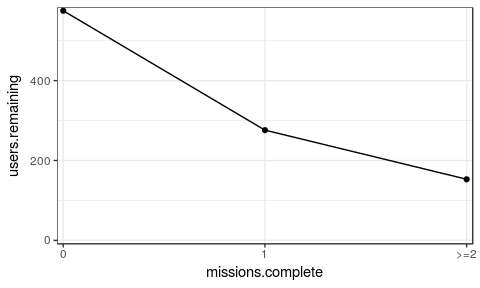
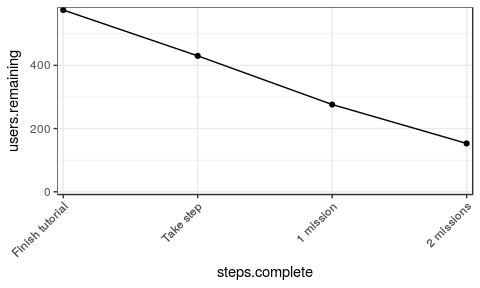
resolves #4 added taking first step to user dropoff graph

diff --git a/R/stats_for_paper.html b/R/stats_for_paper.html
@@ -44,7 +44,7 @@ April 17, 2018</p>
 <ul>
 <li><a href="#data-overlap-and-agreement-between-users">Data overlap and agreement between users</a></li>
 <li><a href="#tutorial-dropoffs">Tutorial dropoffs</a></li>
-<li><a href="#stickyness-of-tool-user-dropoffs">Stickyness of tool: user dropoffs</a></li>
+<li><a href="#user-dropoffs">User dropoffs</a></li>
 </ul></li>
 </ul></li>
 <li><a href="#turk-study">Turk Study</a>
@@ -571,19 +571,18 @@ April 17, 2018</p>
 </ol>
 <p>Of the 1114 people who started the tutorial, 831 finished the first step (75%), and 575 completed the tutorial (52%).</p>
[1 lines of base64/hex data omitted]
-<h3 id="stickyness-of-tool-user-dropoffs">Stickyness of tool: user dropoffs</h3>
-<p>TODO include taking a step in the tool as the first milestone in the graph below.</p>
+<h3 id="user-dropoffs">User dropoffs</h3>
 <p>Below we look at how users drop off after finishing the tutorial. For consistency with the tutorial analysis, we use IP address to denote a user (the 575 IP addresses who finished the tutorial in the previous section are the same 575 IPs that we are looking at below). As such, we are looking at only those who finished the tutorial after July 10th, 2017.</p>
 <p>We also only counted missions completed in the two hours after finishing the tutorial. There was not a sizeable difference when looking at 1 hour, 2 hours, or 48 hours after finishing the tutorial, so I think that 2 hours works fine.</p>
 <p>The steps in the graph below are as follows:</p>
 <ol>
 <li>Finished tutorial</li>
-<li>TODO: Took a step</li>
+<li>Took a step</li>
 <li>Completed first mission</li>
 <li>Completed second mission</li>
 </ol>
-<p>Of the 575 people who finished the tutorial, 276 finished at least one mission afterwards (48%), and 153 completed at least two missions afterwards (27%).</p>
[1 lines of base64/hex data omitted]
+<p>Of the 575 people who finished the tutorial, 430 took a step (75%), 276 finished at least one mission afterwards (48%), and 153 completed at least two missions afterwards (27%).</p>
[1 lines of base64/hex data omitted]
 <h1 id="turk-study">Turk Study</h1>
 <p>Update: This is now all of the data. There used to be 19 anonymous user routes, but three of them actually had no labels placed by the anonymous user (we had forgotten to check beforehand), thus we have only 16.</p>
 <p>Even though 5 turkers did each route, the high level results for individual turkers looks only at the first turker to complete each set of routes. This makes aggregate stats more even, and a fairer comparison across user groups. (but maybe we should actually use all turkers when not aggregating, actually...)</p>

diff --git a/R/stats_for_paper.md b/R/stats_for_paper.md
@@ -14,7 +14,7 @@ April 17, 2018
     -   [Possible Stories](#possible-stories)
         -   [Data overlap and agreement between users](#data-overlap-and-agreement-between-users)
         -   [Tutorial dropoffs](#tutorial-dropoffs)
-        -   [Stickyness of tool: user dropoffs](#stickyness-of-tool-user-dropoffs)
+        -   [User dropoffs](#user-dropoffs)
 -   [Turk Study](#turk-study)
     -   [High level results](#high-level-results-1)
         -   [Ground truth label counts](#ground-truth-label-counts)
@@ -153,9 +153,7 @@ Of the 1114 people who started the tutorial, 831 finished the first step (75%), 
 
 ![](stats_for_paper_files/figure-markdown_github/public.deployment.tutorial.dropoff.plots-1.png)
 
-### Stickyness of tool: user dropoffs
-
-TODO include taking a step in the tool as the first milestone in the graph below.
+### User dropoffs
 
 Below we look at how users drop off after finishing the tutorial. For consistency with the tutorial analysis, we use IP address to denote a user (the 575 IP addresses who finished the tutorial in the previous section are the same 575 IPs that we are looking at below). As such, we are looking at only those who finished the tutorial after July 10th, 2017.
 
@@ -164,11 +162,11 @@ We also only counted missions completed in the two hours after finishing the tut
 The steps in the graph below are as follows:
 
 1.  Finished tutorial
-2.  TODO: Took a step
+2.  Took a step
 3.  Completed first mission
 4.  Completed second mission
 
-Of the 575 people who finished the tutorial, 276 finished at least one mission afterwards (48%), and 153 completed at least two missions afterwards (27%).
+Of the 575 people who finished the tutorial, 430 took a step (75%), 276 finished at least one mission afterwards (48%), and 153 completed at least two missions afterwards (27%).
 
 ![](stats_for_paper_files/figure-markdown_github/public.deployment.user.dropoff.plot-1.png)
 
